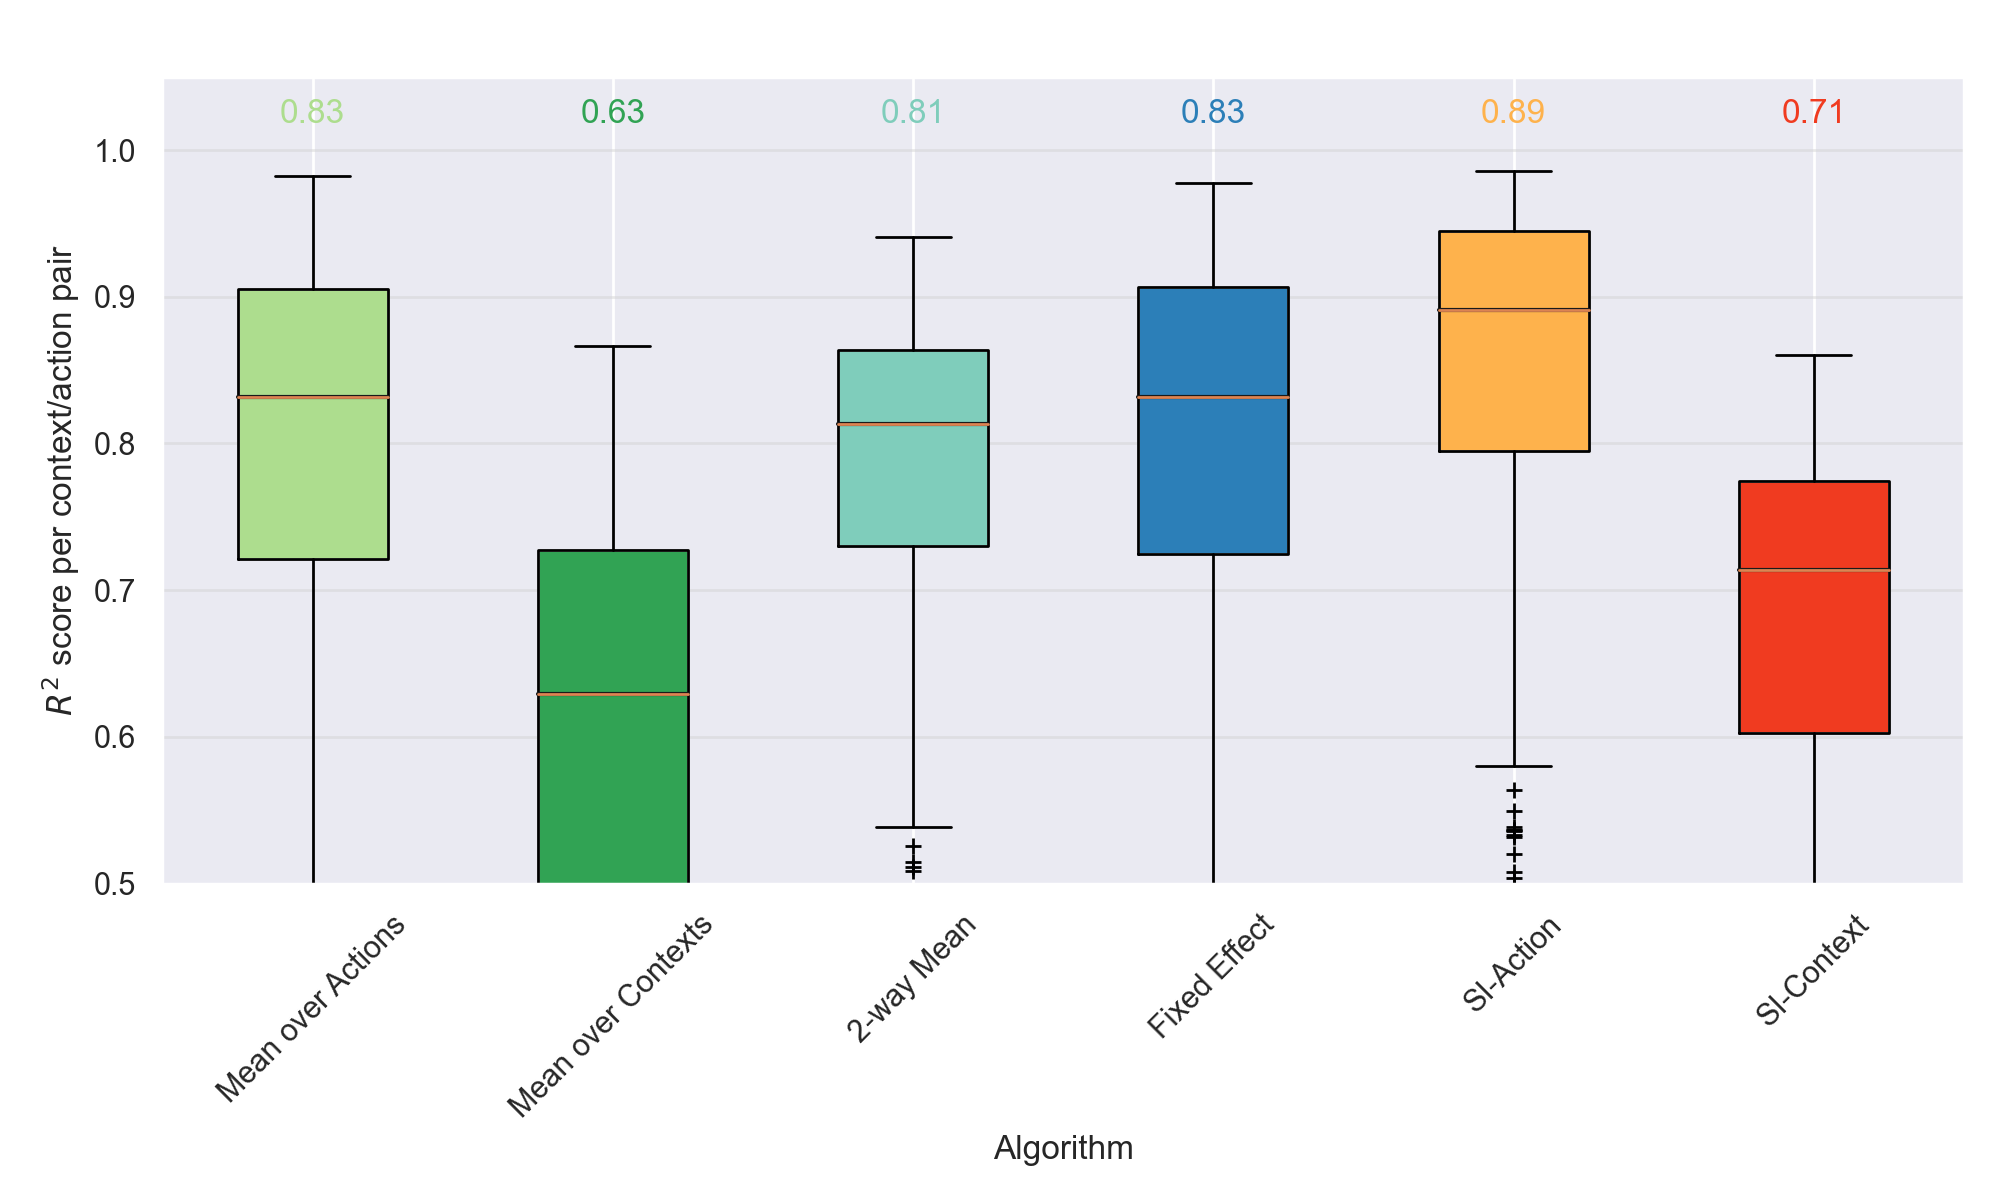
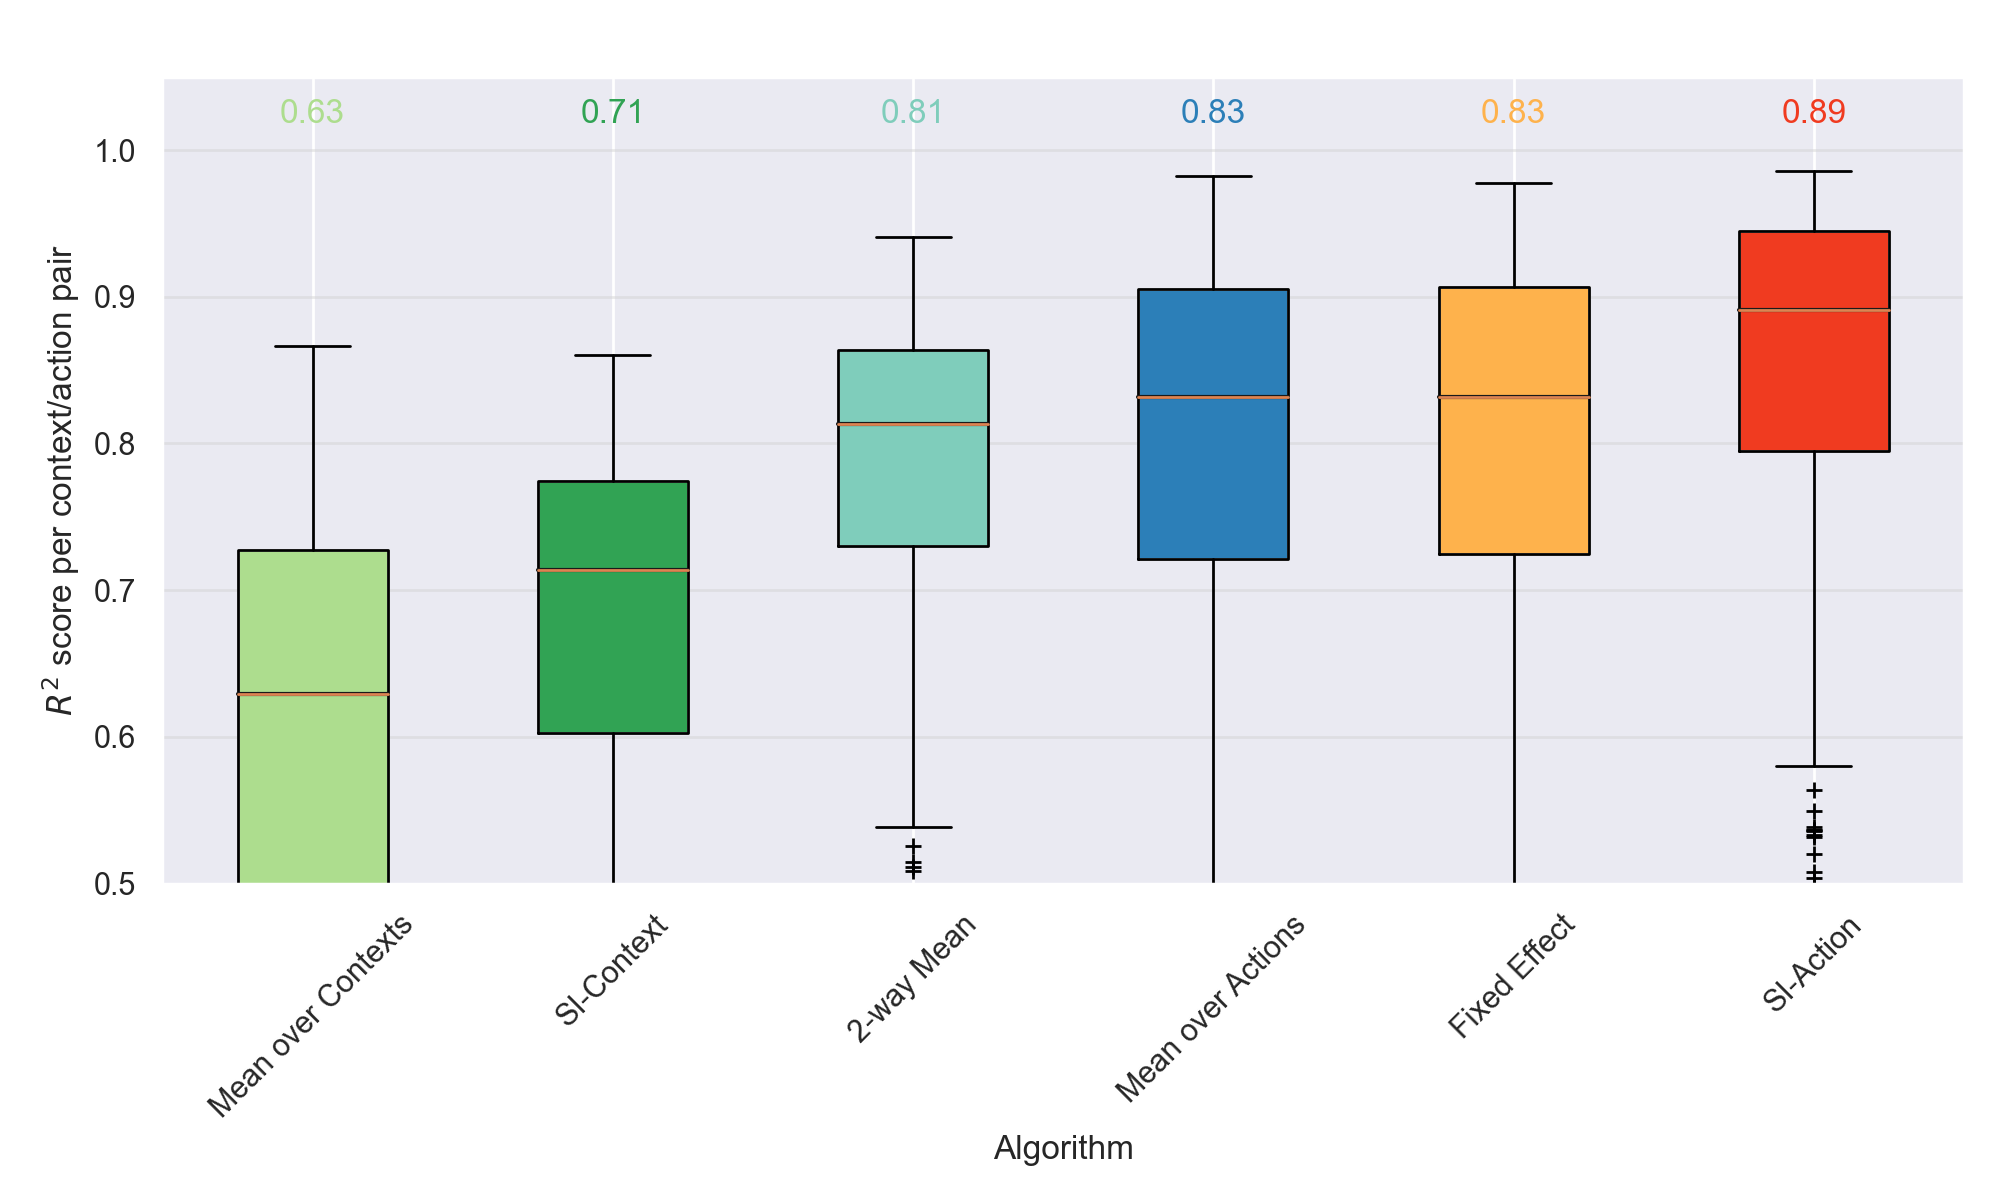
other metrics

diff --git a/evaluation/helpers/evaluation_manager.py b/evaluation/helpers/evaluation_manager.py
@@ -5,6 +5,7 @@ import matplotlib.pyplot as plt
 import os
 import seaborn as sns
 import numpy as np
+from scipy.stats import iqr
 from evaluation.plot_utils import boxplots
 sns.set()
 
@@ -14,12 +15,12 @@ boxColors = ['#addd8e', '#31a354', '#7fcdbb', '#2c7fb8',
 
 energy = 0.95
 alg_names = {
-    'alg=impute_unit_mean': 'Mean over Actions',
     'alg=impute_intervention_mean': 'Mean over Contexts',
+    f'alg=predict_synthetic_intervention_ols,num_desired_donors=None,donor_dim=unit': f'SI-Context',
     'alg=impute_two_way_mean': '2-way Mean',
+    'alg=impute_unit_mean': 'Mean over Actions',
     "alg=impute_mice": "MICE",
     'alg=predict_intervention_fixed_effect,control_intervention=DMSO': 'Fixed Effect',
-    f'alg=predict_synthetic_intervention_ols,num_desired_donors=None,donor_dim=unit': f'SI-Context',
     f'alg=predict_synthetic_intervention_ols,num_desired_donors=None,donor_dim=intervention': f'SI-Action',
     f'alg=predict_synthetic_intervention_hsvt_ols,num_desired_donors=None,energy=0.95,hypo_test=False,donor_dim=intervention': f'SI-action-HSVT',
     f'alg=predict_synthetic_intervention_hsvt_ols,num_desired_donors=None,energy=0.95,hypo_test=True,hypo_test_percent=0.1,donor_dim=intervention,equal_rank=True': f'SI-action-HSVT, +test',
@@ -72,8 +73,39 @@ def compute_relative_mse_matrix(true_values, predicted_values, baseline):
     return true_error/baseline_error
 
 
+def compute_relative_rmse_iqr(true_values, predicted_values, baseline):
+    baseline_error = compute_normalized_rmse_iqr_matrix(true_values, baseline)
+    true_error = compute_normalized_rmse_iqr_matrix(true_values, predicted_values)
+    return true_error/baseline_error
+
+
 def compute_rmse_matrix(true_values, predicted_values):
-    return np.sqrt(np.mean((true_values - predicted_values)**2, axis=1))
+    rmse = np.sqrt(np.mean((true_values - predicted_values)**2, axis=1))
+    return rmse
+
+
+def compute_mean_absolute_error_matrix(true_values, predicted_values):
+    mae = np.mean(np.abs(true_values - predicted_values), axis=1)
+    return mae
+
+
+def compute_relative_mean_absolute_error_matrix(true_values, predicted_values):
+    mae = np.mean(np.abs(true_values - predicted_values), axis=1)
+    rmae = mae / np.median(true_values, axis=1)
+    return rmae
+
+
+def compute_normalized_rmse_matrix(true_values, predicted_values):
+    rmse = compute_rmse_matrix(true_values, predicted_values)
+    normalized_rmse = rmse / np.mean(true_values, axis=1)
+    return normalized_rmse
+
+
+def compute_normalized_rmse_iqr_matrix(true_values, predicted_values):
+    rmse = compute_rmse_matrix(true_values, predicted_values)
+    iqrs = iqr(true_values, axis=1)
+    normalized_rmse = rmse / iqrs
+    return normalized_rmse
 
 
 def compute_r2_vector(true_values, predicted_values):
@@ -110,7 +142,12 @@ class EvaluationManager:
         self.boxplot_r2()
         self.boxplot_cosines()
         self.boxplot_rmse()
+        self.boxplot_rmae()
+        self.boxplot_normalized_rmse()
+        self.boxplot_normalized_rmse_iqr()
         self.boxplot_relative_mse()
+        self.boxplot_mae()
+        self.boxplot_relative_rmse_iqr()
         self.plot_times()
 
         # stats_df = self.get_res_and_stats(method)
@@ -172,6 +209,26 @@ class EvaluationManager:
         rmses = compute_rmse_matrix(self.true_results.values, self.collected_results.values)
         return pd.DataFrame(rmses, index=self.true_results.index)
 
+    def rmae(self):
+        if self.collected_results is None: self._collect_results()
+        rmaes = compute_relative_mean_absolute_error_matrix(self.true_results.values, self.collected_results.values)
+        return pd.DataFrame(rmaes, index=self.true_results.index)
+
+    def mean_absolute_error(self):
+        if self.collected_results is None: self._collect_results()
+        maes = compute_mean_absolute_error_matrix(self.true_results.values, self.collected_results.values)
+        return pd.DataFrame(maes, index=self.true_results.index)
+
+    def normalized_rmse(self):
+        if self.collected_results is None: self._collect_results()
+        nrmses = compute_normalized_rmse_matrix(self.true_results.values, self.collected_results.values)
+        return pd.DataFrame(nrmses, index=self.true_results.index)
+
+    def normalized_rmse_iqr(self):
+        if self.collected_results is None: self._collect_results()
+        nrmses = compute_normalized_rmse_iqr_matrix(self.true_results.values, self.collected_results.values)
+        return pd.DataFrame(nrmses, index=self.true_results.index)
+
     def relative_mse(self, baseline_alg="alg=impute_unit_mean"):
         if self.collected_results is None: self._collect_results()
         baseline = self.collected_results[self.collected_results.index.get_level_values("alg") == baseline_alg]
@@ -180,10 +237,19 @@ class EvaluationManager:
         relative_mses = compute_relative_mse_matrix(self.true_results.values, self.collected_results.values, baseline)
         return pd.DataFrame(relative_mses, index=self.true_results.index)
 
+    def relative_normalized_rmse_iqr(self, baseline_alg="alg=impute_unit_mean"):
+        if self.collected_results is None: self._collect_results()
+        baseline = self.collected_results[self.collected_results.index.get_level_values("alg") == baseline_alg]
+        num_algs = int(self.collected_results.values.shape[0] / baseline.shape[0])
+        baseline = np.tile(baseline, (num_algs, 1))
+        relative_mses = compute_relative_rmse_iqr(self.true_results.values, self.collected_results.values, baseline)
+        return pd.DataFrame(relative_mses, index=self.true_results.index)
+
     # === BOX PLOTS
     def boxplot_r2(self):
         r2_df = self.r2()
         algs = list(self.prediction_manager.prediction_filenames.keys())
+        algs = sorted(algs, key=lambda alg: list(alg_names).index(alg))
         r2_dict = {alg_names[alg]: r2_df.query('alg == @alg').values.flatten() for alg in algs}
         plt.clf()
         boxplots(
@@ -202,6 +268,7 @@ class EvaluationManager:
     def boxplot_cosines(self):
         cosine_df = self.cosines()
         algs = list(self.prediction_manager.prediction_filenames.keys())
+        algs = sorted(algs, key=lambda alg: list(alg_names).index(alg))
         cos_dict = {alg_names[alg]: cosine_df.query('alg == @alg').values.flatten() for alg in algs}
         # === FILTER OUT NAN'S, WHICH COME FROM FIXED EFFECTS PREDICTING THE CONTROL WHEN THERE IS NO
         # === OTHER CONTEXT WITH THE INTERVENTION
@@ -224,7 +291,7 @@ class EvaluationManager:
     def boxplot_rmse(self):
         rmse_df = self.rmse()
         algs = list(self.prediction_manager.prediction_filenames.keys())
-        print(algs)
+        algs = sorted(algs, key=lambda alg: list(alg_names).index(alg))
         # algs = list(alg_names.keys())
         r2_dict = {alg_names[alg]: rmse_df.query('alg == @alg').values.flatten() for alg in algs}
         plt.clf()
@@ -241,9 +308,90 @@ class EvaluationManager:
         plt.title("")
         self.savefig("rmse_boxplot")
 
+    def boxplot_rmae(self):
+        rmae_df = self.rmae()
+        algs = list(self.prediction_manager.prediction_filenames.keys())
+        algs = sorted(algs, key=lambda alg: list(alg_names).index(alg))
+        # algs = list(alg_names.keys())
+        r2_dict = {alg_names[alg]: rmae_df.query('alg == @alg').values.flatten() for alg in algs}
+        plt.clf()
+        boxplots(
+            r2_dict,
+            boxColors,
+            xlabel='Algorithm',
+            ylabel='RMAE per context/action pair',
+            bottom=0,
+            top=1,
+            scale=.04,
+            title=self.prediction_manager.result_string,
+        )
+        plt.title("")
+        self.savefig("rmae_boxplot")
+
+    def boxplot_mae(self):
+        mae_df = self.mean_absolute_error()
+        algs = list(self.prediction_manager.prediction_filenames.keys())
+        algs = sorted(algs, key=lambda alg: list(alg_names).index(alg))
+        # algs = list(alg_names.keys())
+        r2_dict = {alg_names[alg]: mae_df.query('alg == @alg').values.flatten() for alg in algs}
+        plt.clf()
+        boxplots(
+            r2_dict,
+            boxColors,
+            xlabel='Algorithm',
+            ylabel='MAE per context/action pair',
+            bottom=0,
+            top=1000,
+            scale=.04,
+            title=self.prediction_manager.result_string,
+        )
+        plt.title("")
+        self.savefig("mae_boxplot")
+
+    def boxplot_normalized_rmse(self):
+        rmse_df = self.normalized_rmse()
+        algs = list(self.prediction_manager.prediction_filenames.keys())
+        algs = sorted(algs, key=lambda alg: list(alg_names).index(alg))
+        # algs = list(alg_names.keys())
+        r2_dict = {alg_names[alg]: rmse_df.query('alg == @alg').values.flatten() for alg in algs}
+        plt.clf()
+        boxplots(
+            r2_dict,
+            boxColors,
+            xlabel='Algorithm',
+            ylabel='Normalized RMSE per context/action pair',
+            bottom=0,
+            top=2,
+            scale=.04,
+            title=self.prediction_manager.result_string,
+        )
+        plt.title("")
+        self.savefig("normalized_rmse_boxplot")
+
+    def boxplot_normalized_rmse_iqr(self):
+        rmse_df = self.normalized_rmse_iqr()
+        algs = list(self.prediction_manager.prediction_filenames.keys())
+        algs = sorted(algs, key=lambda alg: list(alg_names).index(alg))
+        # algs = list(alg_names.keys())
+        r2_dict = {alg_names[alg]: rmse_df.query('alg == @alg').values.flatten() for alg in algs}
+        plt.clf()
+        boxplots(
+            r2_dict,
+            boxColors,
+            xlabel='Algorithm',
+            ylabel='Normalized RMSE-IQR per context/action pair',
+            bottom=0,
+            top=1.5,
+            scale=.04,
+            title=self.prediction_manager.result_string,
+        )
+        plt.title("")
+        self.savefig("normalized_rmse_iqr_boxplot")
+
     def boxplot_relative_mse(self):
         df = self.relative_mse()
         algs = list(self.prediction_manager.prediction_filenames.keys())
+        algs = sorted(algs, key=lambda alg: list(alg_names).index(alg))
         r2_dict = {alg_names[alg]: df.query('alg == @alg').values.flatten() for alg in algs}
         plt.clf()
         boxplots(
@@ -260,9 +408,30 @@ class EvaluationManager:
         plt.title("")
         self.savefig("relative_mse_boxplot")
 
+    def boxplot_relative_rmse_iqr(self):
+        df = self.relative_mse()
+        algs = list(self.prediction_manager.prediction_filenames.keys())
+        algs = sorted(algs, key=lambda alg: list(alg_names).index(alg))
+        r2_dict = {alg_names[alg]: df.query('alg == @alg').values.flatten() for alg in algs}
+        plt.clf()
+        boxplots(
+            r2_dict,
+            boxColors,
+            xlabel='Algorithm',
+            ylabel='Relative RMSE-IQR',
+            title=self.prediction_manager.result_string,
+            top=2.4,
+            bottom=0,
+            scale=.03
+        )
+        plt.ylim([0, 5])
+        plt.title("")
+        self.savefig("relative_rmse_iqr_boxplot")
+
     def plot_times(self):
         alg2times = dict()
         algs = list(self.prediction_manager.time_filenames.keys())
+        algs = sorted(algs, key=lambda alg: list(alg_names).index(alg))
 
         for alg in algs:
             times = np.loadtxt(self.prediction_manager.time_filenames[alg])

diff --git a/evaluation/main.py b/evaluation/main.py
@@ -17,7 +17,7 @@ def run(name, average, num_perts, num_cells=None):
     )
     # plot_availability_matrix(pm.gene_expression_df, savefig=pm.result_string)
     # pm.predict(impute_missforest, overwrite=False)
-    pm.predict(impute_mice, overwrite=False)
+    # pm.predict(impute_mice, overwrite=False)
     pm.predict(impute_unit_mean, overwrite=False)
     pm.predict(impute_intervention_mean, overwrite=False)
     pm.predict(impute_two_way_mean, overwrite=False)
@@ -49,7 +49,7 @@ if __name__ == '__main__':
     parser = argparse.ArgumentParser()
     parser.add_argument("--name", action="store", dest="name", default="level2", type=str)
     parser.add_argument("--average", action="store", default=True, type=bool)
-    parser.add_argument("--num_perts", action="store", default=20, type=int)
+    parser.add_argument("--num_perts", action="store", default=100, type=int)
     parser.add_argument("--num_cells", action="store", default=None, type=int)
     args = parser.parse_args()
 
